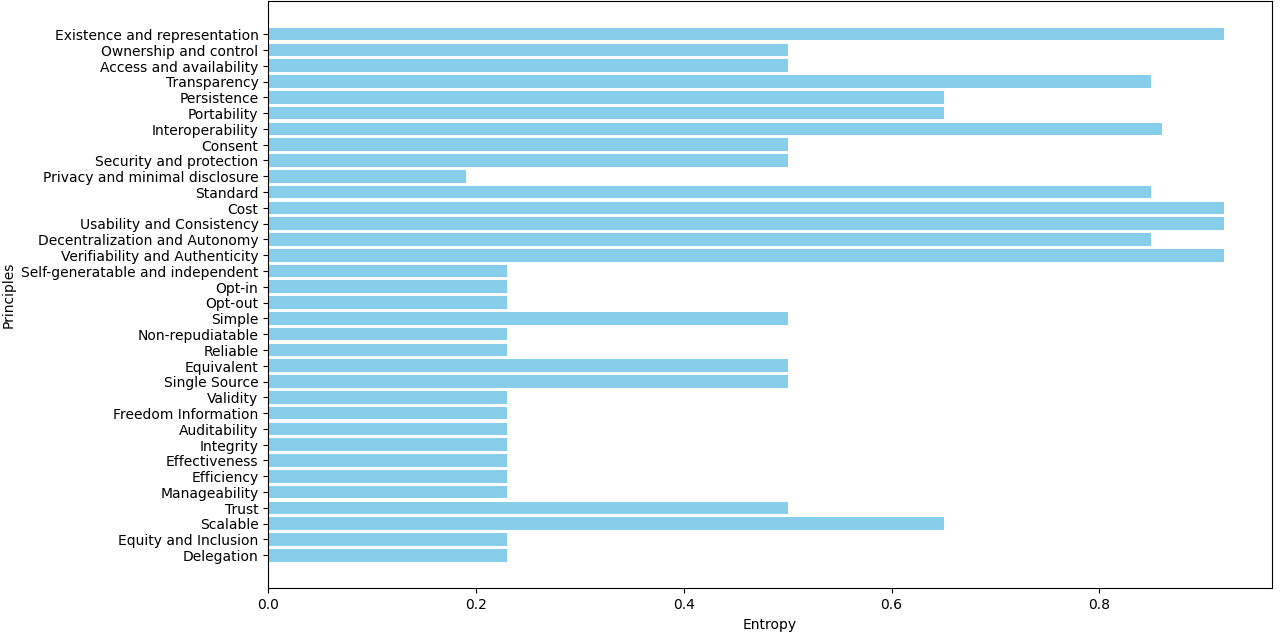
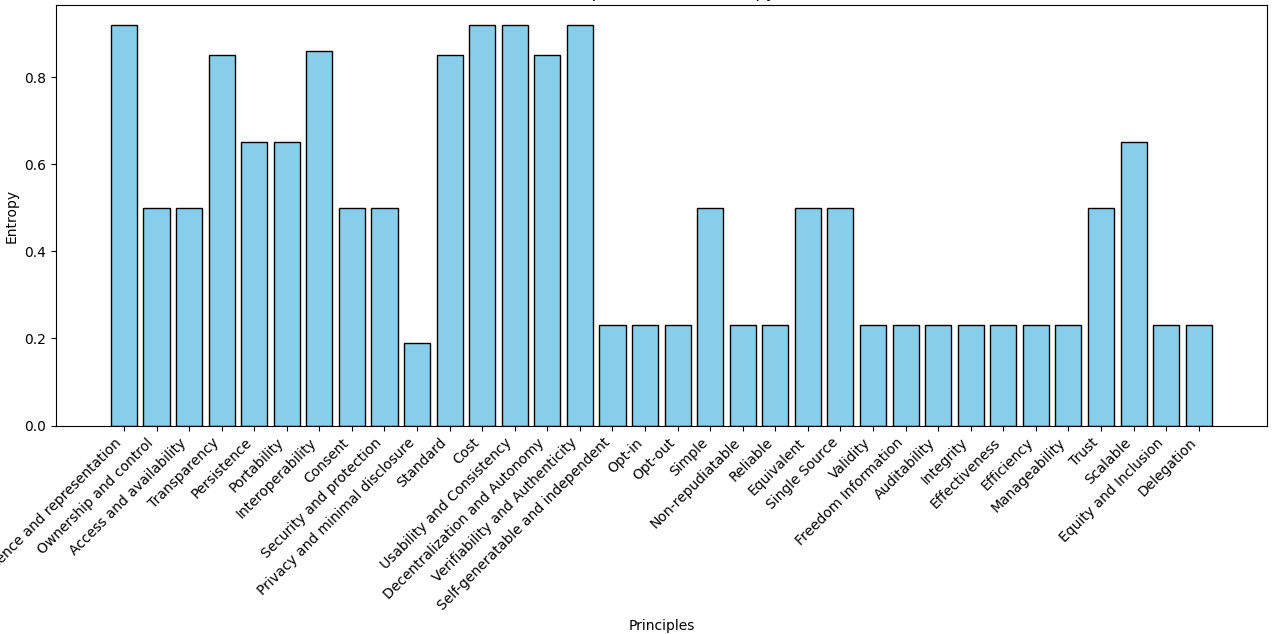
.

diff --git a/definition/program/recording_of_principles/Entropy.py b/definition/program/recording_of_principles/Entropy.py
@@ -23,17 +23,17 @@ data = {
 # Create a DataFrame
 df = pd.DataFrame(data)
 
-# Create the bar chart
+# Create the bar chart (now vertical with principles on the X-axis)
 plt.figure(figsize=(12, 8))  # Set the size of the plot
-plt.barh(df["Attribute"], df["Value"], color='skyblue')  # Horizontal bar chart
+plt.bar(df["Attribute"], df["Value"], color='skyblue', edgecolor='black')  # Vertical bar chart with black borders
 
 # Add labels and title
-plt.xlabel('Entropy')
-plt.ylabel('Principles')
+plt.ylabel('Entropy')
+plt.xlabel('Principles')
 plt.title('')
 
-# Invert the Y-axis to display bars from top to bottom
-plt.gca().invert_yaxis()
+# Rotate X-axis labels to make them readable
+plt.xticks(rotation=45, ha="right")
 
 # Adjust the layout for better display
 plt.tight_layout()

diff --git a/definition/Definition.md b/definition/Definition.md
@@ -6,14 +6,16 @@ Self-Sovereign Identity (SSI) is an innovative approach to identity management t
 
 In 2016 Allen defined the properties of SSI which include *Existence, Control, Access, Transparency, Persistence, Portability, Interoperability, Consent, Minimalization, and Protection.*[^allen] These properties reflects back to the way individuals mange their digital identity and share personal credentials.
 
-The philosophy of SSI shares many similarities with the concepts of decentralized identity and borrows many of its technical elements. A couple of years later, the W3C[^w3c] proposed an archetype based on three key roles and a data flow consistent with the idea of SSI, which was promptly shared by other community projects like Sovrin.[^sovrin] The three entities were: issuer, holder, and verifier. Issuers provide data for holders, who collect claims and later present them as assertions to service providers. Assertions may consist of claims combined in various ways and formats. The roles within the data flow are not fixed; each entity can act as an issuer or a verifier depending on the context. For example, the holder may occasionally issue claims to the verifier, while the verifier can also issue claims to holders upon request. In some cases, a verifiable data registry, such as a blockchain registry or a certificate authority (CA), can be integrated into the model, as shown in Figure 1.
+The philosophy of SSI shares many similarities with the concepts of decentralized identity and borrows many of its technical elements. A couple of years later, the W3C[^w3c] proposed an archetype based on three key roles and a data flow consistent with the idea of SSI, which was promptly shared by other community projects like Sovrin.[^sovrin] The three **User and Roles** are the issuer, holder, and verifier, represented in the left hand side of Figure 1. From the left the Issuer (Identity Provider), which issues credentials; Holder, who manages credentials in wallets; and Verifier (Service Provider), which validates credentials for access. On the right side, under **Data Flow**, a stepwise interaction process among the Issuer, Holder, Verifier, and RegisteringCA is detailed. The process begins with the Issuer, Holder, and Verifier registering and obtaining certificates. Then, issuers providing data for holders, who collect claims and later present them as assertions to service providers. Assertions may consist of claims combined in various ways and formats. The roles within the data flow are not fixed; each entity can act as an issuer or a verifier depending on the context. For example, the holder may occasionally issue claims to the verifier, while the verifier can also issue claims to holders upon request. In some cases, a verifiable data registry, such as a blockchain registry or a certificate authority (CA), can be integrated into the data flow, as in Figure 1. Overall, the diagram represents a decentralized identity system, likely incorporating cryptographic mechanisms or blockchain technology to secure identity verification while ensuring user control, portability, and privacy.
 
-However, there is an intertwine between the concept of SSI and the underneath technology. While the principles of SSI have shaped the architecture proposed by the W3C, some studies have sought to position the principles of SSI within the proposed architecture.[^cucko] Positioning principles within the SSI data flow allows to put properties in prespective of a pragmatic application of properties, while opening to subsequent works, for example developing an assessment model based on SSI. To shed light on the positioning of properties, we have investigated information from [^cucko], the Trust Over IP Foundation [^toip], the W3C,[^w3c] and the Architecture and Reference Framework v1.4.1 of the EUDI Wallet solution,[^ARF] with the hope of building the most comprehensive image of the Allen properties within the SSI architecture. The position of properties is consistent with the information from [^cucko]. Although we did not infer anything else, the position of these principles refers only to Allen’s principles and does not fit other definitions of SSI from other authors. Furthermore, the use of a registering CA - or another form of centrally managed or decentralized repository - can be replaced with a different type of trust anchor to validate certificates.
+It is evident that an intertwine between the concept of SSI and the underneath technology exists. While the principles of SSI have shaped the architecture proposed in Figure 1, some studies have sought to position the principles of SSI within the W3C architecture.[^cucko] Positioning principles within the SSI data flow allows to put properties in prespective of subsequent works, for example developing an assessment model based on SSI. To shed light on the positioning of properties, we have investigated information from [^cucko], the Trust Over IP Foundation [^toip], the W3C,[^w3c] and the Architecture and Reference Framework v1.4.1 of the EUDI Wallet solution,[^ARF] with the hope of building the most comprehensive image of the Allen properties within the SSI architecture.
 
-As other authors have proposed a different set of principles and definitions, we aim to analyze their contributions and converge to an agree upon set of properties.
+The position of properties is consistent with the information from [^cucko] and reported within the schema in Figure 1. A key aspect highlighted is **Portability**, which allows credentials to be transferred between wallets. Other notable attributes include **Existence**, ensuring identity proof; **Control**, emphasizing user authority over data; and **Protection**, focusing on security. The diagram also highlights principles such as **Consent**, ensuring user agreement; **Access**, governing authorization; and **Minimization**, which reduces unnecessary data sharing. Although we did not infer anything else, the position of these principles refers only to Allen’s principles and does not fit other definitions of SSI from other authors. Furthermore, the use of a registering CA - or another form of centrally managed or decentralized repository - can be replaced with a different type of trust anchor to validate certificates.
 
 ![Allen Principles Schema (Local)](/definition/images/allen_principles/Allen_principles_schema.png)
 *Figure 1: Systematic positioning of Allen's properties within the SSI process workflow.[^allen]*
+
+As other authors have proposed a different set of principles and definitions, we aim to analyze their contributions and converge to an agree upon set of properties.
 
 ## 1.2 Related works
 
@@ -69,9 +71,9 @@ Table 1 summarizes the names of the properties and contributions identified thro
 
 ### 1.3.2 Merging
 
-Difference in the naming of properties across various authors can be observed. However, many of these properties convey the same or similar meanings. To avoid pitfalls, we have consolidated property labels based on previous works by [^cucko][^sovrin][^toth][^stokkink][^ferdous][^andrieu]. This resulted in the following merges: (i) Existence and Representation, (ii) Ownership and Control, (iii) Ownership and Choosability, (iv) Access and Availability, (v) Portability and Secure Identity Transfer, (vi) Interoperability and Compliance, (vii) Consent and Participation, (viii) Protection and Secure Transactions, (ix) Protection and Security, (x) Protection and Counterfeit Prevention, (xi) Minimization and Privacy, (xii) Minimization and Disclosure Minimization, (xiii) Usability and Consistency, (xiv) Consistency and Recoverability, (xv) Decentralization and Autonomy, (xvi) Provability and Identity Assurance, (xvii) Provability, Verifiability, and Authentication, and (xviii) Identity Assurance and Identity Verification.
+Difference in the naming of properties across various authors can be observed. However, many of these properties convey the same or similar meanings. To avoid pitfalls, Figure 2 provides a holistic view of how different authors conceptualize identity properties, showing their overlaps and interconnections. The image presents a causal loop diagram illustrating the relationships between various properties of identity systems as defined by different authors, using overlapping colored regions to represent different contributions: Gray (Allen),[^allen] Blue (Toth and Kalman),[^toth] Green (Ferdous et al.),[^ferdous] Orange (Sovrin),[^sovrin] Yellow (Andrieu et al.),[^andrieu] and Red (Stokkink and Pouwelse).[^stokkink] The diagram maps key identity properties such as security, privacy, decentralization, and verifiability, with arrows indicating their interdependencies. On the right, a modified properties list enumerates 11 essential identity system attributes, including existence and representation, ownership and control, access and availability, portability, interoperability, consent, security and protection, privacy and minimal disclosure, usability and consistency, decentralization and autonomy, and verifiability and authenticity.
 
-This approach aligns our list with established terminology in the field of identity, and ensures a coherent naming across works. Additionally, we slightly adjusted the work of [^cucko] to reflect updates in a more recent literature review. Specifically, we removed the properties of Equity and Inclusion, as well as Recoverability. Furthermore, we renamed Legacy System with Compliance; we eliminated the links between Control and Agency, Access and Usability, and Availability and Recoverability. Figure 2 visualizes the results through a Causal Loop Diagram based on these papers. The diagram includes only the properties subject to modification or merging.
+This approach aligns our list with established terminology, and ensures a coherent naming across works. Additionally, we slightly adjusted the work of [^cucko] to reflect updates in a more recent literature review. Specifically, the properties of Equity and Inclusion, and Recoverability as been removed; Legacy System renamed with Compliance; links between Control and Agency, Access and Usability, and Availability and Recoverability have been dismissed. For sake of clarity, the diagram includes only the properties subject to modification or merging and not the all exihibit principles.
 
 ![Casual Loop Diagram Properties (Local)](/definition/images/casual_loop_diagram/Casual_loop_diagram.png)
 *Figure 2: Casual loop diagram of the set of properties, defined by different authors.*
@@ -79,6 +81,8 @@ This approach aligns our list with established terminology in the field of ident
 The merging process has collapsed some of the principles naming together and shrinked the list by 34%, leading to a total of 34 principles. The new list, presented in [Table 2](https://cristianlepore.github.io/Self-Sovereign-Identity/definition/tables/principles_semplification/Principles_semplification2.html), shows that Allen's principles are, on average, shared by 13 out of 17 authors, while the remaining 24 principles are shared by fewer than 2 authors on average.
 
 [Click to view the table 2.](https://cristianlepore.github.io/Self-Sovereign-Identity/definition/tables/principles_semplification/Principles_semplification2.html) *Comparison of identified properties grouping from various sources.*
+
+The following image summarizes our findings. Allen's principles are followed by approximately 80% of authors (around 13 authors), whereas extending 24 principles is adopted by fewer than 10% of authors (fewer than 2 authors).
 
 | **Category**                          | **Frequency** | **Authors** |
 |---------------------------------------|-------------------|-------------------|
@@ -119,10 +123,7 @@ $$
 \text{(1)} \quad H(p) = -\sum_{i=1}^{n} p_i \log_2 (p_i)
 $$
 
-which calculates the entropy as a measure of the degree of uncertainty of a principle, based on the authors' citations. A high entropy corresponds to a principle cited by manies, while a low value corresponds to a few citations. The entropy does not reflect the frequency, rather is a measeure of how messy is the distribution of probability. So, for a principles that is "predictable", namely frequently cited, the entropy will be low; In the same way, for principles that are almost always false, the entropy will be low as well. The reason is that their degree of predictability is the same. This is visible for principles like "Ownership and Control" and "Simple."
-
-![Entropy](/definition/images/principles_selection/Entropy.png)
-*Figure 6: The full list of principles and their entropy.*
+which calculates the entropy as a measure of the degree of uncertainty of a principle, based on the authors' citations. A high entropy corresponds to a principle cited by manies, while a low value corresponds to a few citations. The entropy does not reflect the frequency, rather is a measeure of how messy is the distribution of probability. So, for a principles that is "predictable", namely frequently cited, the entropy will be low; In the same way, for principles that are almost always false, the entropy will be low as well. The reason is that their degree of predictability is the same. This is visible for principles like "Ownership and Control" and "Simple (see the [Appendix A](#appendix-a-entropy))."
 
 Even further methods have been considered, but their analysis was not carried on. For example, the Principal Component Analysis (PCA) aims to produce new dimensions by combining the existing principles. These new dimensions will compromise the rest of our analysis on categorizations, because we deal with new principles and cannot rely on literature works. Also make it difficult to ground a definition of principle based on the literature becaue it shiffle the cards. Correlating principles with a study correlation was dismissed because it highlights latent relationships between principles - principles who may exhibit similar behaviors - and we do not want to speculate on that now.
 
@@ -487,6 +488,13 @@ INSERIRE I RANKING DELLE PROPRIETA4 ALL4INTERNO DI QUESTA IMMAGINE
 ![Allen Principles Schema (Local)](/definition/images/SSI_process_flow/SSI_process_flow_raw.png)
 *SSI properties mapped within the general SSI process flow.[^allen]*
 
+## Appendix A: Entropy
+
+This bar chart visualizes the entropy values of various principles, with principles on the x-axis and entropy values on the y-axis. Higher entropy suggests more mentioning across authors, while lower entropy indicates fewer mentioning. Principles like "Existence and representation," "Usability and consistency," "Decentralization and autonomy," and "Self-generatable and independent" exhibit high entropy, indicating significant variability. Mid-range entropy is observed in "Ownership and control," "Access and availability," and "Interoperability." In contrast, "Privacy and minimal disclosure," "Security and protection," and "Auditability" have lower entropy, suggesting less authors discussing these principles. The chart structure makes it easier to compare entropy across principles, offering insights into which principles are more debated versus more stable.
+
+![Entropy](/definition/images/principles_selection/Entropy.png)
+*Principles and their entropy.*
+
 ## Appendix A: K-Means Clustering Program Explanation
 
 ### Overview
@@ -612,7 +620,7 @@ if __name__ == "__main__":
 
 This program efficiently applies K-Means Clustering to a dataset and saves the results. It is particularly useful for unsupervised learning tasks where grouping similar data points is required.
 
-## Appendix A
+## Appendix B
 
 A copy of the survey given to respondents at the International Workshop on Emerging Digital Identities at ARES 2024.[^ares]
 
